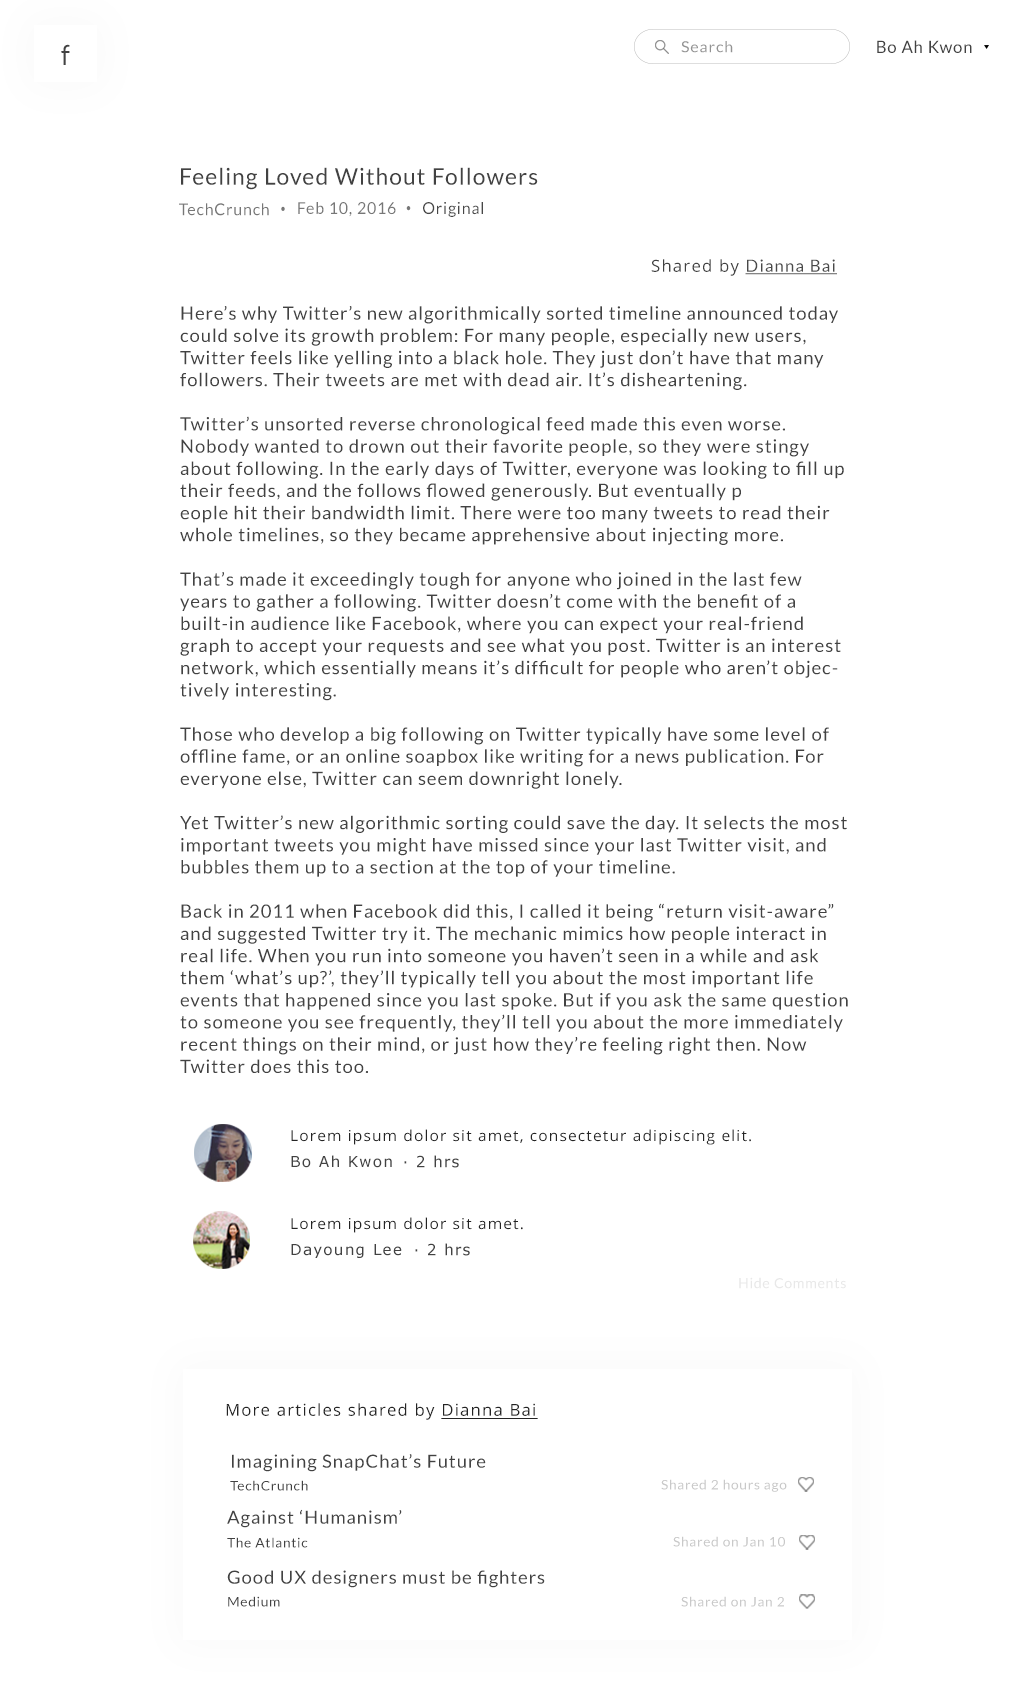
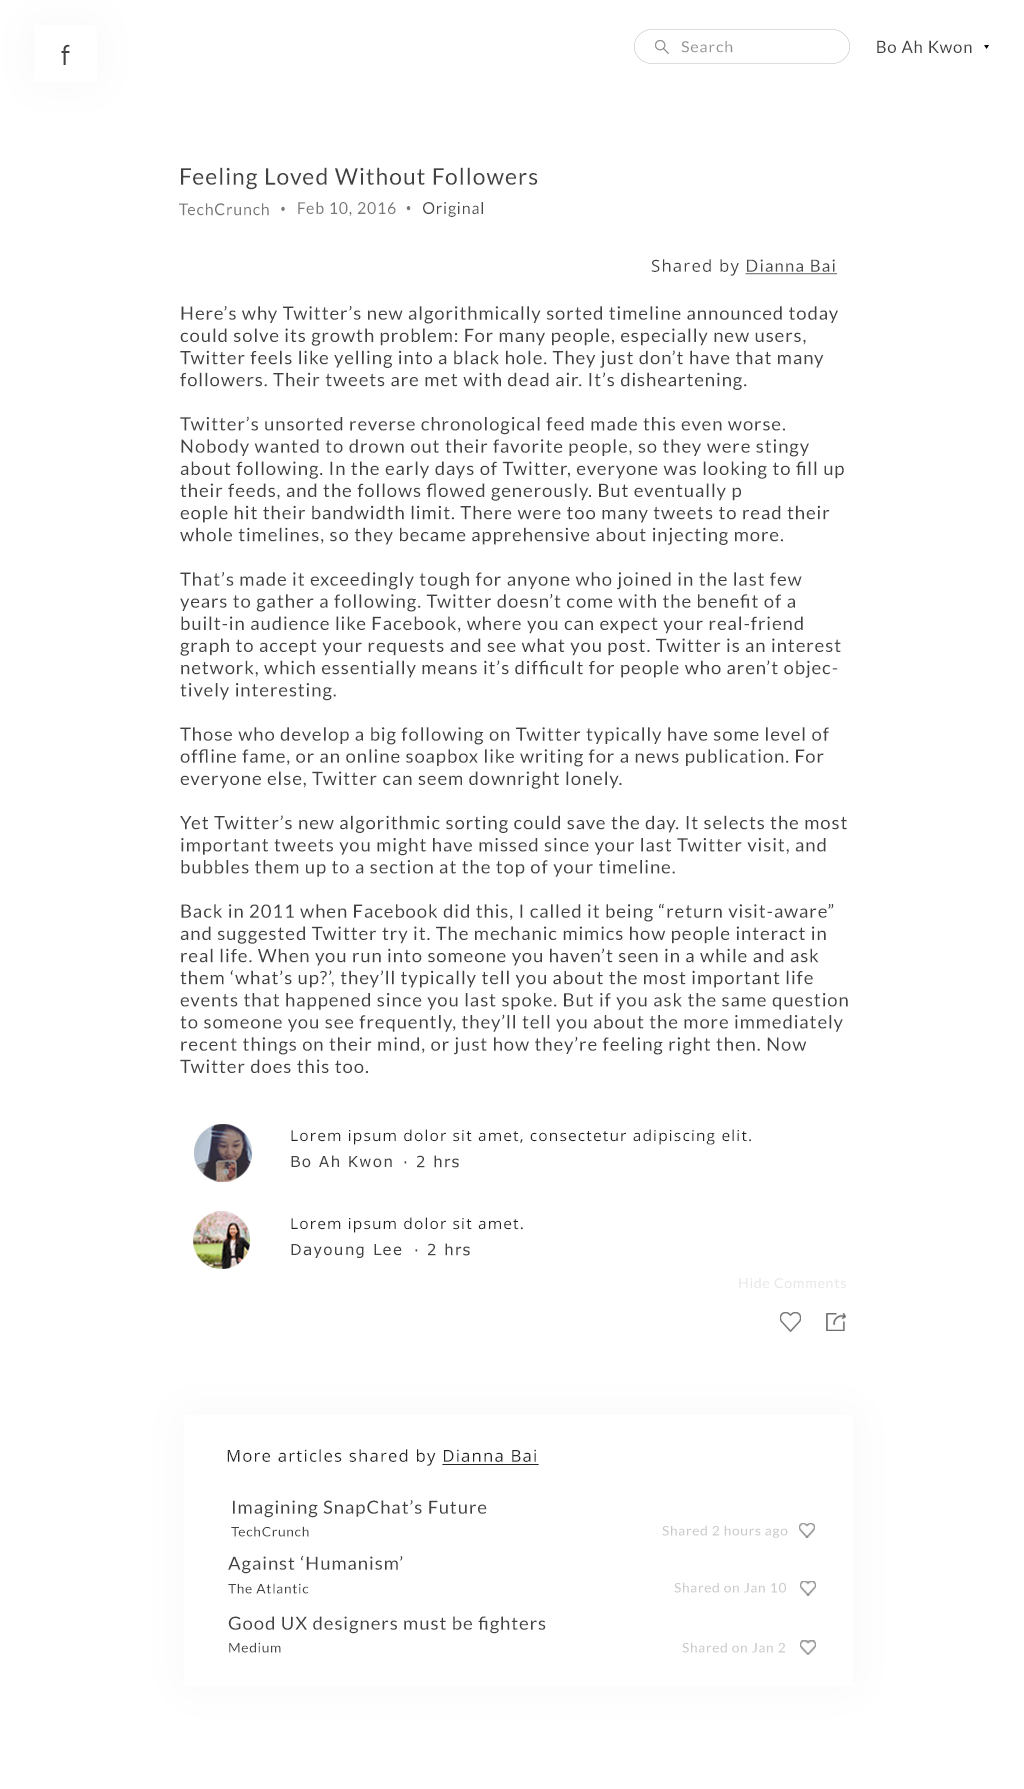
newsreadereidtse

diff --git a/styles/core.css b/styles/core.css
@@ -531,7 +531,33 @@ div.sharedbydianna {
 	margin-left: -100px;
 	box-shadow: 			0px 8px 15px #eaeaea;
 }
-
+div.option3 {
+	content: url('/images/option3.jpg');
+	width: 100%;
+    transform: rotate(90deg);
+}
+div.bottombutton {
+	content: url('/images/bottombutton.png');
+	width: 130%;
+	margin-left: -100px;
+	box-shadow: 			0px 8px 15px #eaeaea;
+}
+div.bottombutton2 {
+	content: url('/images/bottombutton2.png');
+	width: 130%;
+	margin-left: -100px;
+	box-shadow: 			0px 8px 15px #eaeaea;
+}
+div.bottombar {
+	content: url('/images/bottombar.png');
+	width: 130%;
+	margin-left: -100px;
+	box-shadow: 			0px 8px 15px #eaeaea;
+}
+.cap {
+	margin-left: 70px;
+	margin-right: 70px;
+}
 
 /* global */
 .header {

diff --git a/item/newsreader.md b/item/newsreader.md
@@ -38,9 +38,7 @@ For example, Feedly, one of the most popular RSS readers, offers only a preview 
 
 <div class="feedlycaption">Feedly offers only a preview of an article</div>
 <br>
-On Flipboard, another popular newsreader, users are instead directed straight to the original site when they click the news item. However, the web is often less ideal for reading (think large ads, bad layouts, etc. on news sites that distract you from reading). 
-
-I think the popularity of products such as Readability, Pocket, Instapaper, and Medium really speaks to the idea that users value distraction-free reading experience. Given this insight, I think a news reader that also parses articles and presents them in a clean format will offer extra value to users. This way, users can enjoy a great reading experience without having to leave the site. 
+On Flipboard, another popular newsreader, users are instead directed straight to the original site when they click the news item. However, the web is often less ideal for reading (think large ads, bad layouts, etc. on news sites that distract you from reading). I think the popularity of products such as Readability, Pocket, Instapaper, and Medium really speaks to the idea that users value distraction-free reading experience. Given this insight, I think a news reader that also parses articles and presents them in a clean format will offer extra value to users. This way, users can enjoy a great reading experience without having to leave the site. 
 
 <br>
 
@@ -58,11 +56,22 @@ So I decided not to pull up photos for each news item and present only the essen
 
 In addition, I wanted to have elements that help users share or manage articles appear only when needed. I considered three ways in which I can achieve this 1) the share/manage menu appears in default either on top or left side and users click to collapse or expand it. 2) the menu appears when users scroll up as they read an article; the menu disappears when users scroll down 3) same as 2) but in addition to that, there is a button and the menu appears when a user hover over the button.   
 
-[sketch image] 
+<div class="option3"></div>
 
-I decided against 1) because I wanted the full screen dedicated to the article without the menu.  Between 2) and 3), I chose 3) because it will not always be intuitive to users that the share/manage menu will appear when they scroll up. For users who want to use the share/manage menu but have not yet figured out that the menu appears when they scroll up, the button will give them more control. In designing option 3) I decided to place the button and menu on the bottom of the screen because eyes stay on the upper part of the screen and it will be less distracting to have the menu appear on the bottom. 
+I decided against 1) because I wanted the full screen dedicated to the article without the menu.  Between 2) and 3), I initially chose 3) because it will not always be intuitive to users that the share/manage menu will appear when they scroll up. For users who want to use the share/manage menu but have not yet figured out that the menu appears when they scroll up, the button will give them more control. In designing option 3) I decided to place the button and menu on the bottom of the screen because eyes stay on the upper part of the screen and it will be less distracting to have the menu appear on the bottom. 
 
-[high fidelity mockup image] 
+However, once I designed the high-fidelity mockup of 3), I realized that it’s a bit distracting to have a button on the bottom. 
+
+<div class="bottombutton"></div>
+<p>In option 3), when users hover over the button, the share/manage menu appears.</p>
+<br>
+<div class="bottombutton2"></div>
+<br>
+ I decided creating a distraction-free experience is more important than giving users a bit more control over managing articles, so I went with 2) instead.   
+<div class="bottombar"></div>
+<p class="cap">In the final design, the share/manage menu appears when users scroll up.</p> 
+<br>
+
 
 # Iterations 
 
@@ -85,7 +94,7 @@ I thought c) made sense and made it as the default option. In this option, artic
 <div class="maindropdown"></div>
 <br>
 
-There were other useful insights I gained while talking to users. For example, some wanted to be able to sort the list by topics e.g. politics. However, the goal of the product is to simplify the Newsfeed experience after all, and I decided to not to add more bells and whistles.
+There were other useful insights I gained while talking to users. For example, some wanted to be able to sort the list by topics e.g. politics. However, the goal of the product is to simplify the Newsfeed experience after all, and I decided not to add more bells and whistles.
 
 <br>
 
@@ -98,8 +107,15 @@ A user logs in.
 S/he sees the list of articles that his/her Facebook friends posted. 
 <div class="maindropdown2"></div>
 <br>
-S/he reads an article distraction-free. 
+S/he reads an article distraction-free. The site also pulls comments from Facebook, which s/he can choose to hide.  
 <div class="articlepage"></div>
 <br>
 S/he can also view the list of articles posted by a specific friend.
 <div class="sharedbydianna"></div>
+
+<br>
+
+# What I would've done differently 
+
+
+
